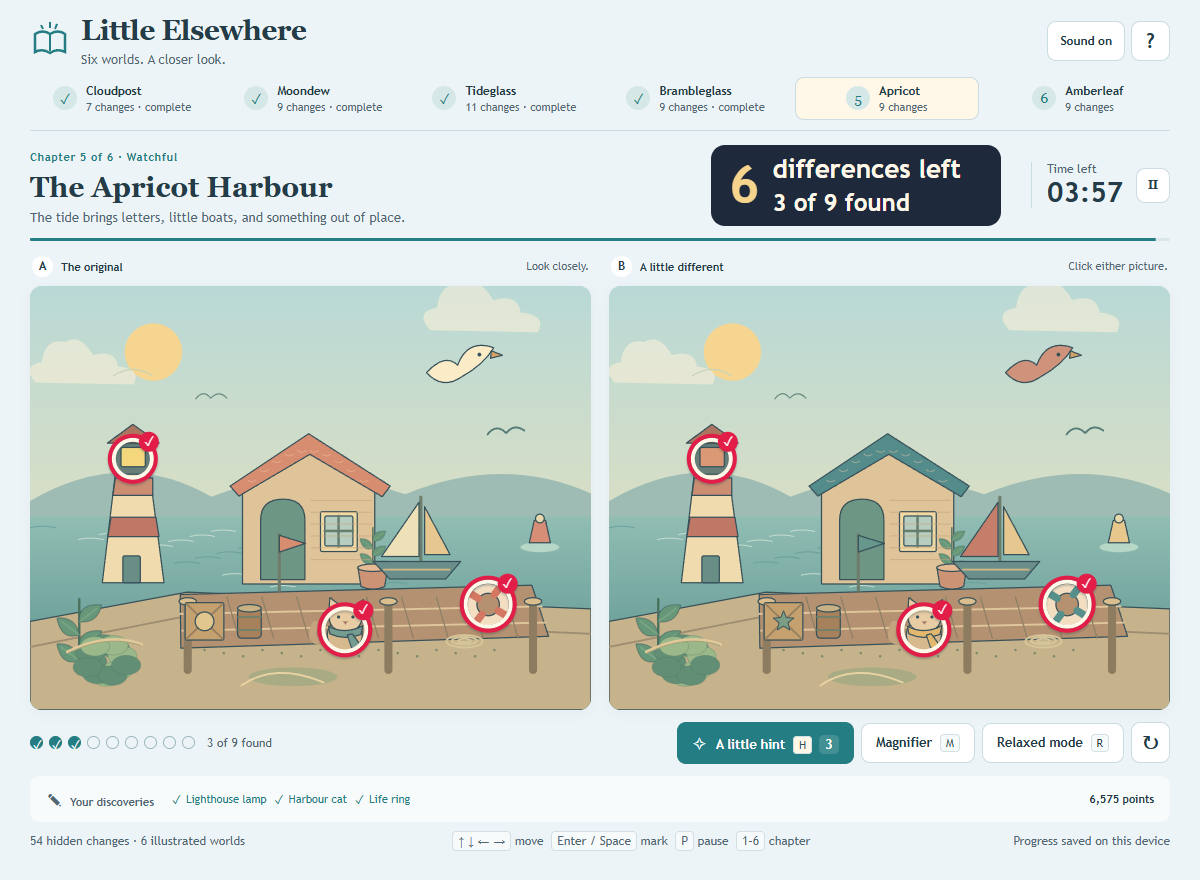
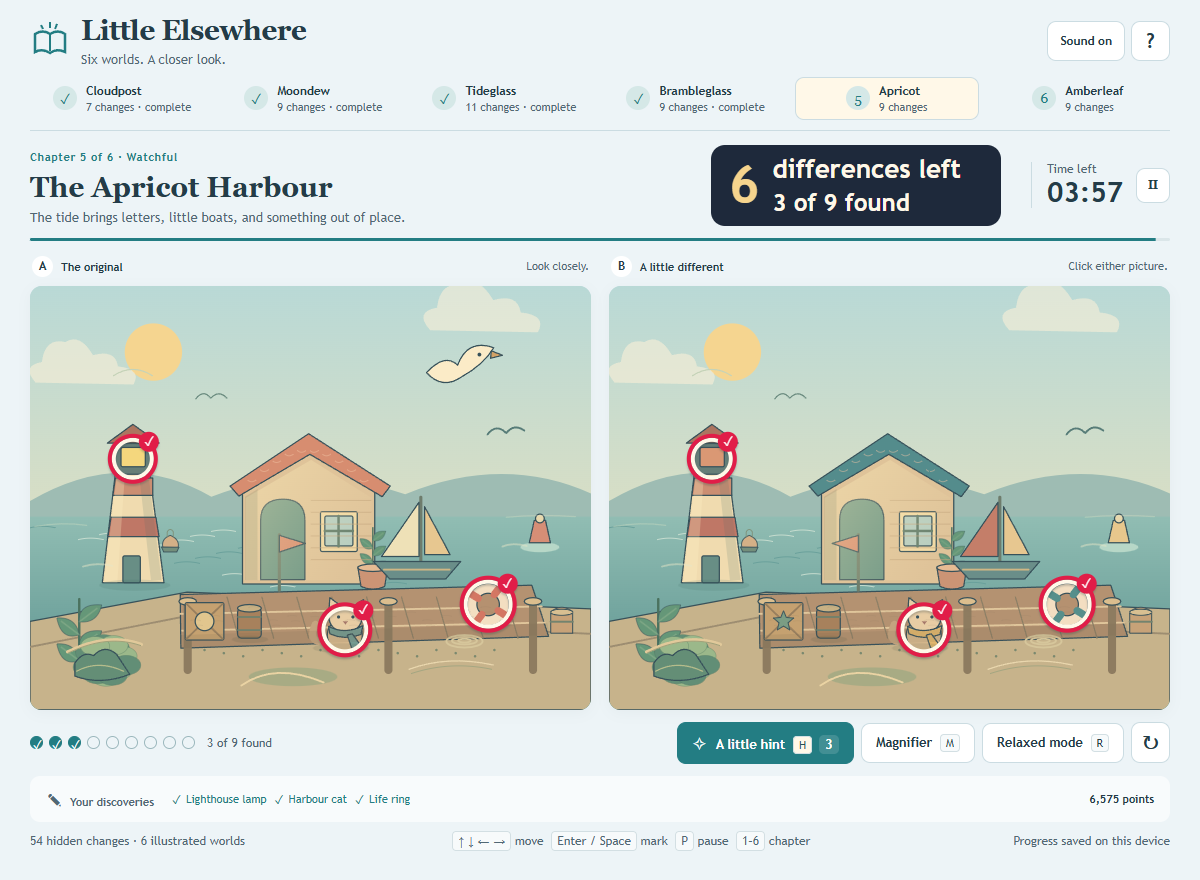
Deepen harbour and library art with varied object puzzles

diff --git a/game/js/storybook-worlds.js b/game/js/storybook-worlds.js
@@ -1,5 +1,12 @@
 // Three original, independently composed storybook scenes. Shared brush helpers,
 // distinct architecture, silhouettes, props and precisely registered differences.
+export function renderBrambleglassGarden(changed){return drawBrambleglassGarden(changed)+paintWorldDetails(3);}
+export function renderApricotHarbour(changed){return drawApricotHarbour(changed)+paintWorldDetails(4)+paintHarbourAtmosphere();}
+export function renderAmberleafLibrary(changed){return drawAmberleafLibrary(changed)+paintWorldDetails(5)+paintLibraryAtmosphere();}
+export function renderNewWorld(index,changed,prefix){
+ const body=[renderBrambleglassGarden,renderApricotHarbour,renderAmberleafLibrary][index-3](changed);
+ return `<svg viewBox="0 0 900 680" xmlns="http://www.w3.org/2000/svg" aria-hidden="true">${storybookPigments()}${r(0,0,900,680,'url(#__sky)',0,'none')}${body}</svg>`.replaceAll('__',prefix+'-');
+}
 const ink='#37515a';
 const p=(d,c,s=ink,w=2)=>`<path d="${d}" fill="${c}" stroke="${s}" stroke-width="${w}" stroke-linecap="round" stroke-linejoin="round"/>`;
 const e=(x,y,rx,ry,c,s='none',w=2)=>`<ellipse cx="${x}" cy="${y}" rx="${rx}" ry="${ry}" fill="${c}" stroke="${s}" stroke-width="${w}"/>`;
@@ -31,25 +38,24 @@ function drawBrambleglassGarden(c){let b=cloud(140,100,1.2)+cloud(760,230,1.3)+c
 function drawApricotHarbour(c){let b=circle(198,106,46,'#f5d590')+cloud(89,145,1)+cloud(730,60,1.1)+p('M0 345Q150 257 291 338Q440 279 602 334Q760 270 900 333V680H0Z','#9ebcb3','none')+p('M0 370H900V680H0Z','url(#__sea)','none');for(let i=0;i<60;i++){const x=(i*77)%890,y=388+(i*19)%236;b+=p(`M${x} ${y}q20 -5 41 0`,'none',i%3?'#c9ded0':'#689f9a',1.5);}b+=p('M0 538L252 491L900 518V680H0Z','#c7b38b')+p('M0 579L254 529L900 558','none','#9d8d71',3);
  b+=p('M116 476L137 300H192L215 476Z','#f0dbaf')+p('M125 402H207L202 371H130Z','#bf7766')+p('M133 336H197V308H137Z','#cb8e72')+r(136,251,58,51,'#667e77')+r(146,259,39,31,c?'#da9874':'#f4d77d')+p('M124 252L165 222L207 252Z','#ac7560')+r(149,433,28,43,'#688e85');
  b+=p('M341 318L448 254L553 318V478H341Z','#dfc399')+p('M321 321L447 237L578 321L565 338L449 270L335 337Z',c?'#548c8c':'#d78d70')+p('M370 471V376Q370 342 406 342Q441 342 441 376V471Z','#6e9685')+r(466,362,59,64,'#f1d9a4')+r(473,369,45,48,'#b7cdc0')+l(495,369,495,418,'#657e6c',4)+l(473,393,518,393,'#657e6c',4)+pot(550,482,1);
- b+=g(686,133,1,p('M-50 6Q-20 -26 0 -6Q16 -49 58 -34Q42 -7 6 13Q-24 34 -50 6Z',c?'#cf937b':'#fbebc7')+circle(35,-23,3,ink)+p('M54 -29L72 -22L53 -17Z','#d2a267'));
+ if(!c)b+=g(686,133,1,p('M-50 6Q-20 -26 0 -6Q16 -49 58 -34Q42 -7 6 13Q-24 34 -50 6Z','#fbebc7')+circle(35,-23,3,ink)+p('M54 -29L72 -22L53 -17Z','#d2a267'));
  b+=g(627,406,1,l(0,43,0,-67,'#6e7c6c',5)+p('M-3 -59L-3 28L-63 28Z',c?'#c47e69':'#eee1b7')+p('M6 -52L47 25H6Z','#e7c790')+p('M-76 36H64L40 64H-50Z','#6a8e89')+p('M-59 49H46','none','#cfb684',3));
  b+=p('M241 495L805 480L832 562L242 581Z','#b49271')+p('M241 526L821 514M244 553L826 540','none','#e0c69b',3);for(let i=0;i<10;i++)b+=l(260+i*56,499,279+i*56,565,'#8c7f65',2);for(const x of [253,575,807])b+=p(`M${x} 506V616`,'none','#8e7c60',13)+e(x,506,14,6,'#dbbe8e',ink);
  b+=g(735,511,1,circle(0,0,34,'#f3dec1',ink)+circle(0,0,18,'#b59170',ink)+p('M-29 -18L-16 -10M20 -29L10 -16M29 18L16 10M-20 29L-10 16','none',c?'#578f8b':'#d47763',12));
  b+=g(280,538,1,r(-31,-30,62,60,'#c5a170')+p('M-29 -28L29 28M29 -28L-29 28','none','#987f5e',3)+(c?star(0,0,17,'#7b9d84'):circle(0,0,15,'#e1c68e',ink)));
- b+=g(400,438,1,l(0,50,0,-39,'#6e7d6b',5)+p('M0 -38L42 -25L0 -11Z',c?'#67968c':'#d78d70'))+cat(505,552,c?'#e2b76e':'#749c91');
+ b+=g(400,438,1,l(0,50,0,-39,'#6e7d6b',5)+p(c?'M0 -38L-42 -25L0 -11Z':'M0 -38L42 -25L0 -11Z','#d78d70'))+cat(505,552,c?'#e2b76e':'#749c91');
  b+=g(818,397,1,e(0,22,31,8,'#b7d7c7')+p('M-17 15L-9 -21H9L17 15Z',c?'#e7c78c':'#d68e76')+circle(0,-24,7,'#e8d8ad',ink));b+=plant(79,622,1.3)+shrub(122,620,1.3)+e(422,627,71,15,'#a8ab84')+p('M339 641Q393 603 471 636','none','#ead3a3',3);return b;}
 function drawAmberleafLibrary(c){let b=r(0,0,900,680,'url(#__wall)',0,'none');for(let i=0;i<12;i++)b+=l(i*80,0,i*80,570,'#b99d7f',2);b+=p('M0 563H900V680H0Z','#b49b7b','none');for(let i=0;i<11;i++)b+=l(i*90,565,i*70-15,680,'#8f8069',2);b+=e(494,590,275,61,'#bb7e67',ink)+e(494,590,246,45,'#d1b18a',ink)+e(494,590,220,32,'#a9b199',ink);
  b+=r(251,128,166,374,'#866c59',7)+r(263,140,142,350,'#5c6f63',3);for(let row=0;row<4;row++){const y=226+row*76;b+=r(254,y,161,11,'#b99a73');for(let j=0;j<7;j++){let x=267+j*19,h=35+(j*11+row*7)%31;b+=r(x,y-h,15,h,['#d1a078','#9ab092','#719494','#cfb678'][j%4],1)+l(x+4,y-h+5,x+4,y-4,'#e8d4a4',1);}}
- b+=r(293,286,53,69,c?'#cb8c77':'#7c9a86',3)+p('M307 340V303M307 326Q332 305 335 319Q325 338 307 326','none','#edcf98',3);
+ b+=c?p('M294 286Q319 270 345 286V351Q321 338 294 351Z','#7c9a86')+p('M319 279V342M300 294Q309 289 315 292M324 292Q333 289 340 294','none','#e3c897',2):r(293,286,53,69,'#7c9a86',3)+p('M307 340V303M307 326Q332 305 335 319Q325 338 307 326','none','#edcf98',3);
  b+=p('M482 319V177Q482 108 579 108Q678 108 678 177V319Z','#dbc39b')+p('M495 307V182Q495 123 579 123Q665 123 665 182V307Z','url(#__night)')+l(579,128,579,307,'#b99c76',8)+l(497,231,664,231,'#b99c76',6)+p('M486 113Q462 198 479 328L512 320Q499 236 518 133Z','#9ba88b')+p('M673 113Q696 210 680 328L648 320Q660 226 641 133Z','#9ba88b');b+=circle(580,202,39,'#f2d48c')+(c?'':circle(597,186,35,'#4e7077'));for(let i=0;i<9;i++)b+=l(520+i*16,155+(i%3)*18,514+i*16,172+(i%3)*18,'#b3cfbf77',1.5);
  b+=r(87,348,154,175,'#c7ad89',7)+p('M105 507V422Q105 390 166 390Q223 390 223 422V507Z','#6e6d59')+p('M119 506Q112 466 143 443Q146 475 165 441Q195 477 201 506Z','#dc9c64','none')+p('M141 508Q144 481 163 478Q178 492 179 508Z','#f0cb7c','none')+r(72,342,183,19,'#dfc49b')+r(94,517,145,18,'#aa8d6b');
  b+=circle(166,199,37,'#b48e66',ink)+circle(166,199,29,'#f0d7a3',ink)+p(c?'M166 199L183 185M166 199L163 177':'M166 199V177M166 199L183 208','none',ink,3)+g(167,407,1,c?star(0,0,23,'#bd896b'):flower(0,0,1,'#d6b880'));
  b+=p('M491 502V400Q492 366 524 365H582Q613 368 614 400V502Z',c?'#6e9690':'#c28e77')+r(479,441,23,68,c?'#6e9690':'#c28e77',10)+r(601,441,23,68,c?'#6e9690':'#c28e77',10)+r(503,468,98,36,'#dfbd91',10)+l(509,505,503,538,'#7e745d',9)+l(598,505,604,538,'#7e745d',9)+p('M511 417Q553 388 593 418','none','#e6c9a1',3);
- b+=g(714,394,1,l(0,35,0,112,'#7d8770',7)+e(0,115,34,9,'#b39e78',ink)+p('M-42 -33H32L52 23H-58Z',c?'#a1b5a6':'#efc886')+p('M-49 17H45','none','#efdcb1',3));b+=e(738,546,69,17,'#d6b78d',ink)+l(694,549,690,614,'#937d61',6)+l(780,549,785,614,'#937d61',6)+g(720,533,1,p('M-17 -21H17L12 -2Q0 6 -12 -2Z','#e5d7b3')+p('M17 -18Q36 -18 26 -4H14','none','#b49d7a',4))+circle(755,546,11,'#d6ac78',ink)+(c?'':circle(779,542,11,'#d6ac78',ink));b+=cat(340,552,c?'#b7846d':'#d5b96e')+g(470,591,1,p('M-19 -23H19V28L0 15L-19 28Z',c?'#ce8d76':'#71988b'))+pot(805,575,1.3)+r(40,560,123,19,'#709486')+r(48,545,113,16,'#d1b282');return b;}
-export function renderNewWorld(index,changed,prefix){
- const body=[drawBrambleglassGarden,drawApricotHarbour,drawAmberleafLibrary][index-3](changed)+paintWorldDetails(index);
+ b+=g(714,394,1,l(0,35,0,112,'#7d8770',7)+e(0,115,34,9,'#b39e78',ink)+p('M-42 -33H32L52 23H-58Z',c?'#a1b5a6':'#efc886')+p('M-49 17H45','none','#efdcb1',3));b+=e(738,546,69,17,'#d6b78d',ink)+l(694,549,690,614,'#937d61',6)+l(780,549,785,614,'#937d61',6)+g(720,533,1,p('M-17 -21H17L12 -2Q0 6 -12 -2Z','#e5d7b3')+p('M17 -18Q36 -18 26 -4H14','none','#b49d7a',4))+circle(755,546,11,'#d6ac78',ink)+(c?'':circle(779,542,11,'#d6ac78',ink));b+=cat(340,552,c?'#b7846d':'#d5b96e')+g(470,591,1,p(c?'M-19 -23H19V28L0 15L-19 28Z':'M-19 -23H19V28H-19Z','#71988b'))+pot(805,575,1.3)+r(40,560,123,19,'#709486')+r(48,545,113,16,'#d1b282');return b;}
+function storybookPigments(){
  const defs=`<defs><linearGradient id="__sky" x2="0" y2="1"><stop stop-color="#b9d9d6"/><stop offset="1" stop-color="#f4e3b6"/></linearGradient><linearGradient id="__ground" x2="0" y2="1"><stop stop-color="#acc198"/><stop offset="1" stop-color="#799a7d"/></linearGradient><linearGradient id="__glass" x2="1" y2="1"><stop stop-color="#dce6bf"/><stop offset=".5" stop-color="#9dc3aa"/><stop offset="1" stop-color="#b9cdad"/></linearGradient><linearGradient id="__sea" x2="0" y2="1"><stop stop-color="#91bdb3"/><stop offset="1" stop-color="#558e8b"/></linearGradient><linearGradient id="__wall" x2="0" y2="1"><stop stop-color="#d7bd99"/><stop offset="1" stop-color="#bda585"/></linearGradient><linearGradient id="__night" x2="0" y2="1"><stop stop-color="#476e7a"/><stop offset="1" stop-color="#a2bcab"/></linearGradient></defs>`;
- return `<svg viewBox="0 0 900 680" xmlns="http://www.w3.org/2000/svg" aria-hidden="true">${defs}${r(0,0,900,680,'url(#__sky)',0,'none')}${body}</svg>`.replaceAll('__',prefix+'-');
+  return defs+`<defs><linearGradient id="__warmLight" x1="0" y1="0" x2="1" y2=".65"><stop stop-color="#fff0bb" stop-opacity=".42"/><stop offset="1" stop-color="#fff0bb" stop-opacity="0"/></linearGradient><linearGradient id="__coolShade" x1="0" y1="0" x2="1" y2="0"><stop stop-color="#274c57" stop-opacity=".25"/><stop offset="1" stop-color="#274c57" stop-opacity="0"/></linearGradient><radialGradient id="__hearthGlow"><stop stop-color="#f3be74" stop-opacity=".4"/><stop offset="1" stop-color="#f3be74" stop-opacity="0"/></radialGradient><radialGradient id="__lamplight"><stop stop-color="#fff0b6" stop-opacity=".38"/><stop offset="1" stop-color="#fff0b6" stop-opacity="0"/></radialGradient></defs>`;
 }
 function paintWorldDetails(index){
  let b='';
@@ -83,5 +89,37 @@ function paintWorldDetails(index){
   b+=p('M43 333Q27 243 40 166','none','#6e9177',3);for(let i=0;i<7;i++)b+=leaf(39,201+i*16,.35,'#8fa681',i%2?-50:50);
   b+=g(847,517,.8,r(-22,-42,44,44,'#cab693')+p('M-22 -31H22M-22 -15H22','none','#a49170',2));
  }
+  return b;
+}
+function paintHarbourAtmosphere(){
+ let b='';
+ // Quiet shoreline depth, reflected light and grounded materials, identical in both pictures.
+ b+=p('M8 386q42 -8 83 -2M764 371q54 -5 111 -1','none','#dce4c555',2);
+ b+=p('M346 340L451 279L548 340V472H346Z','url(#__warmLight)','none')+p('M345 338L365 326V472H345Z','#4c6b5524','none');
+ b+=p('M119 476L139 306H152L140 476Z','#fff1c445','none')+p('M191 311L211 472H194L176 311Z','#456c6426','none');
+ b+=e(168,480,57,9,'#355f5b22')+e(499,581,45,8,'#4a554222')+e(353,567,29,6,'#4a554226');
+ b+=p('M241 560L830 541L834 560L242 581Z','#735f4c22','none');
+ for(let i=0;i<17;i++){const x=257+i*31,y=537-(i%4)*7;b+=p(`M${x} ${y}q8 -3 17 0m-10 8q8 -2 14 0`,'none','#806f582a',1);}
+ b+=g(225,419,.7,p('M-17 0Q-21 -19 0 -27Q22 -18 18 1Z','#d4b087')+p('M-20 0H20L15 11H-15Z','#748e7b')+p('M-7 -23V-35Q0 -46 7 -35V-23','none','#7e8f76',2));
+ b+=p('M72 605Q85 585 102 593Q120 574 139 591L160 623Q114 641 72 626Z','#648e76')+p('M75 618Q109 599 150 618','none','#b5bc8b',2);
+ b+=g(853,553,.8,p('M-22 5L-22 -37Q0 -57 22 -37V5Z','#c7a278')+l(-22,-18,22,-18,'#73836e',4)+e(0,-37,22,6,'#d8bf91',ink));
+ b+=p('M608 615Q670 592 743 608','none','#e9d6ad',2)+p('M611 622Q674 601 741 615','none','#8f9e7b',1);
+ b+=p('M758 418q16 -7 39 -1M85 450q23 -7 47 -1','none','#e6e6c77a',3);
+ return b;
+}
+function paintLibraryAtmosphere(){
+ let b='';
+ // Window light, fireplace warmth and carved detail form a single inhabited reading nook.
+ b+=p('M495 315L663 315L813 560L614 566Z','url(#__warmLight)','none');
+ b+=e(163,503,123,112,'url(#__hearthGlow)')+e(714,444,112,98,'url(#__lamplight)');
+ b+=r(264,143,13,347,'#233f3423',0,'none')+r(400,142,7,348,'#d7bd8a55',0,'none');
+ b+=p('M94 535L244 532L264 552L88 555Z','#5e61452b','none')+e(554,531,75,13,'#4d5a4a22')+e(738,608,74,12,'#4d5a4a1d');
+ for(let i=0;i<5;i++){let x=507+i*17;b+=circle(x,477,2,'#a38766');}b+=p('M501 492H601','none','#8f806344',2);
+ for(let row=0;row<4;row++)for(let col=0;col<7;col++){const x=273+col*19,y=213+row*76;b+=l(x,y-7,x+6,y-7,'#e3c99e',1)+l(x,y-11,x+6,y-11,'#a89270',.8);}
+ b+=r(616,345,49,57,'#9b8268',4)+r(622,351,37,45,'#e1c99f',2)+g(640,387,.3,p('M-28 0L0 -38L28 0Z','#78968a')+p('M-36 0H36V22H-36Z','#b68b6e'));
+ b+=g(92,583,.65,p('M-39 -5H39V15H-39Z','#e2d1ab')+p('M-39 -5Q-18 -17 0 -8Q18 -17 39 -5','none','#e8d8b3',3)+l(0,-8,0,15,'#ac956f',2));
+ b+=p('M748 134Q772 111 793 133Q811 115 830 134','none','#a29475',2)+p('M738 306H831','none','#e7cda2',3);
+ b+=g(453,139,.7,p('M-13 -4Q-29 -24 -9 -30Q7 -37 14 -16Q27 -11 18 2L0 13Z','#c59376')+circle(-4,-13,2,ink));
+ for(let i=0;i<17;i++){const x=508+(i*47)%264,y=332+(i*23)%191;b+=circle(x,y,.8,'#f1d9a75c');}
  return b;
 }

diff --git a/game/js/chapters-data.js b/game/js/chapters-data.js
@@ -48,11 +48,11 @@ export const chapters=[
   {x:165,y:278,r:34,name:'Lighthouse lamp',clue:'Look at the top of the lighthouse.'},
   {x:505,y:552,r:38,name:'Harbour cat',clue:'The cat wears a different scarf.'},
   {x:735,y:511,r:39,name:'Life ring',clue:'Check the life ring on the dock.'},
-  {x:686,y:133,r:62,name:'Seabird',clue:'A large bird is passing through the sky.'},
+  {x:686,y:133,r:73,kind:'absence',name:'Missing seabird',clue:'Is the large seabird in both skies?'},
   {x:448,y:285,r:137,name:'Boathouse roof',clue:'Study the boathouse roof.'},
   {x:627,y:406,r:67,name:'Sailing boat',clue:'The boat has a different sail.'},
   {x:280,y:538,r:33,name:'Crate stamp',clue:'The crate carries a curious stamp.'},
-  {x:400,y:438,r:34,name:'Harbour pennant',clue:'Look at the flag by the dock.'},
+  {x:400,y:415,r:47,kind:'orientation',name:'Harbour pennant',clue:'Which way is the dock’s pennant pointing?'},
   {x:818,y:397,r:35,name:'Floating buoy',clue:'Something is bobbing at the far right.'}
  ]},
  {name:'The Amberleaf Library',short:'Amberleaf',subtitle:'Rain at the window. Tea by the fire. Nine stories slightly changed.',time:255,difficulty:'Keen-eyed · 9 changes',features:[
@@ -61,10 +61,10 @@ export const chapters=[
   {x:340,y:552,r:38,name:'Library cat',clue:'The librarian’s scarf seems different.'},
   {x:580,y:202,r:59,name:'Window moon',clue:'Look at the moon through the arched window.'},
   {x:552,y:453,r:103,name:'Reading armchair',clue:'Study the big armchair’s upholstery.'},
-  {x:319,y:320,r:36,name:'Botanical book',clue:'Look at the broad book on the middle shelf.'},
+  {x:319,y:315,r:43,kind:'silhouette',name:'Open botanical book',clue:'Is the broad botanical book open or closed?'},
   {x:167,y:407,r:35,name:'Fireplace ornament',clue:'A little tile sits above the fireplace.'},
   {x:744,y:551,r:40,name:'Tea and biscuits',clue:'Count the biscuits beside the teacup.'},
-  {x:470,y:591,r:35,name:'Paper bookmark',clue:'There is a bookmark on the rug.'}
+  {x:470,y:591,r:35,kind:'silhouette',name:'Notched bookmark',clue:'Look at the cut at the end of the bookmark.'}
  ]}
 ];
 export const totalDifferences=chapters.reduce((n,c)=>n+c.features.length,0);

diff --git a/README.md b/README.md
@@ -6,6 +6,8 @@
 
 A spot-the-difference journey through six original illustrated worlds. Visit a cottage above the weather, a moonlit teahouse, an observatory beneath the sea, a botanical glasshouse, an apricot-coloured harbour, and an old library. Find 54 changes with paired coral discovery rings, a field journal and original procedural audio.
 
+The harbour and library combine original layered light, material details and grounded shadows with varied object puzzles: a missing seabird, a reversed pennant, an open book and a notched bookmark sit alongside colour, count and shape changes. Every difference has an authored hit region and a scene-specific hint.
+
 ## Run it
 
 Node.js 22.18 or later. No installation or build step is needed.
